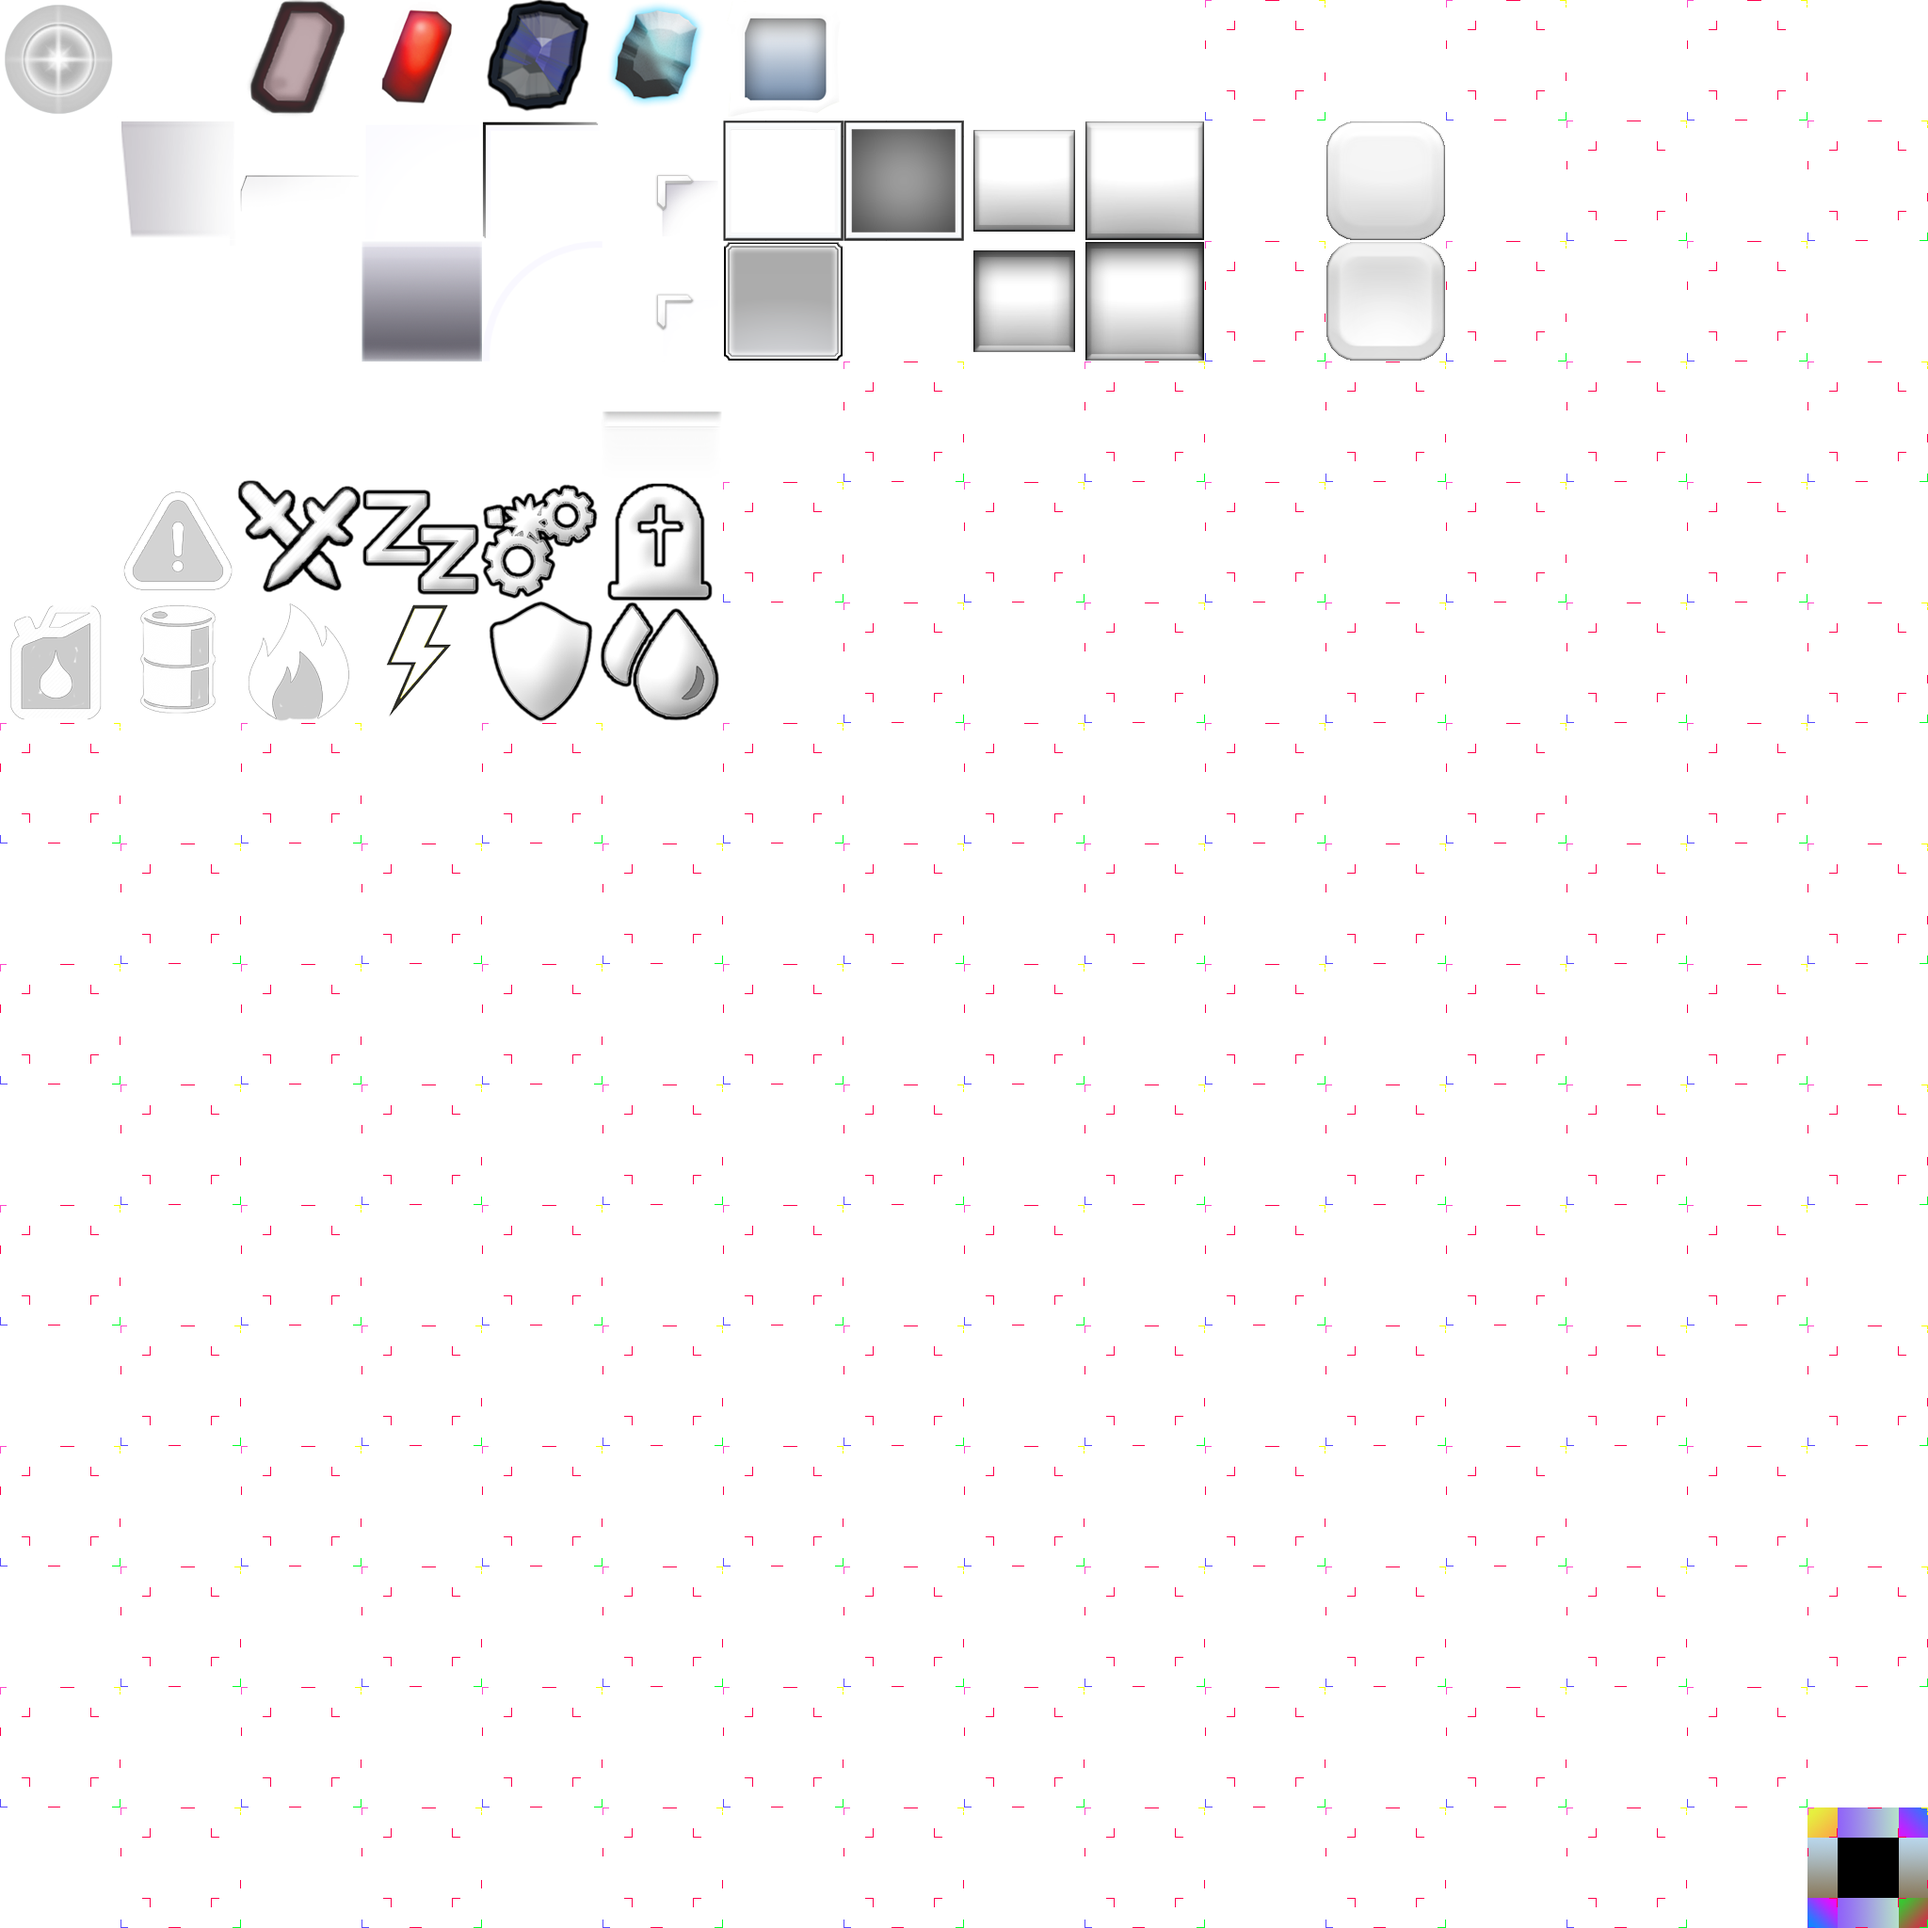
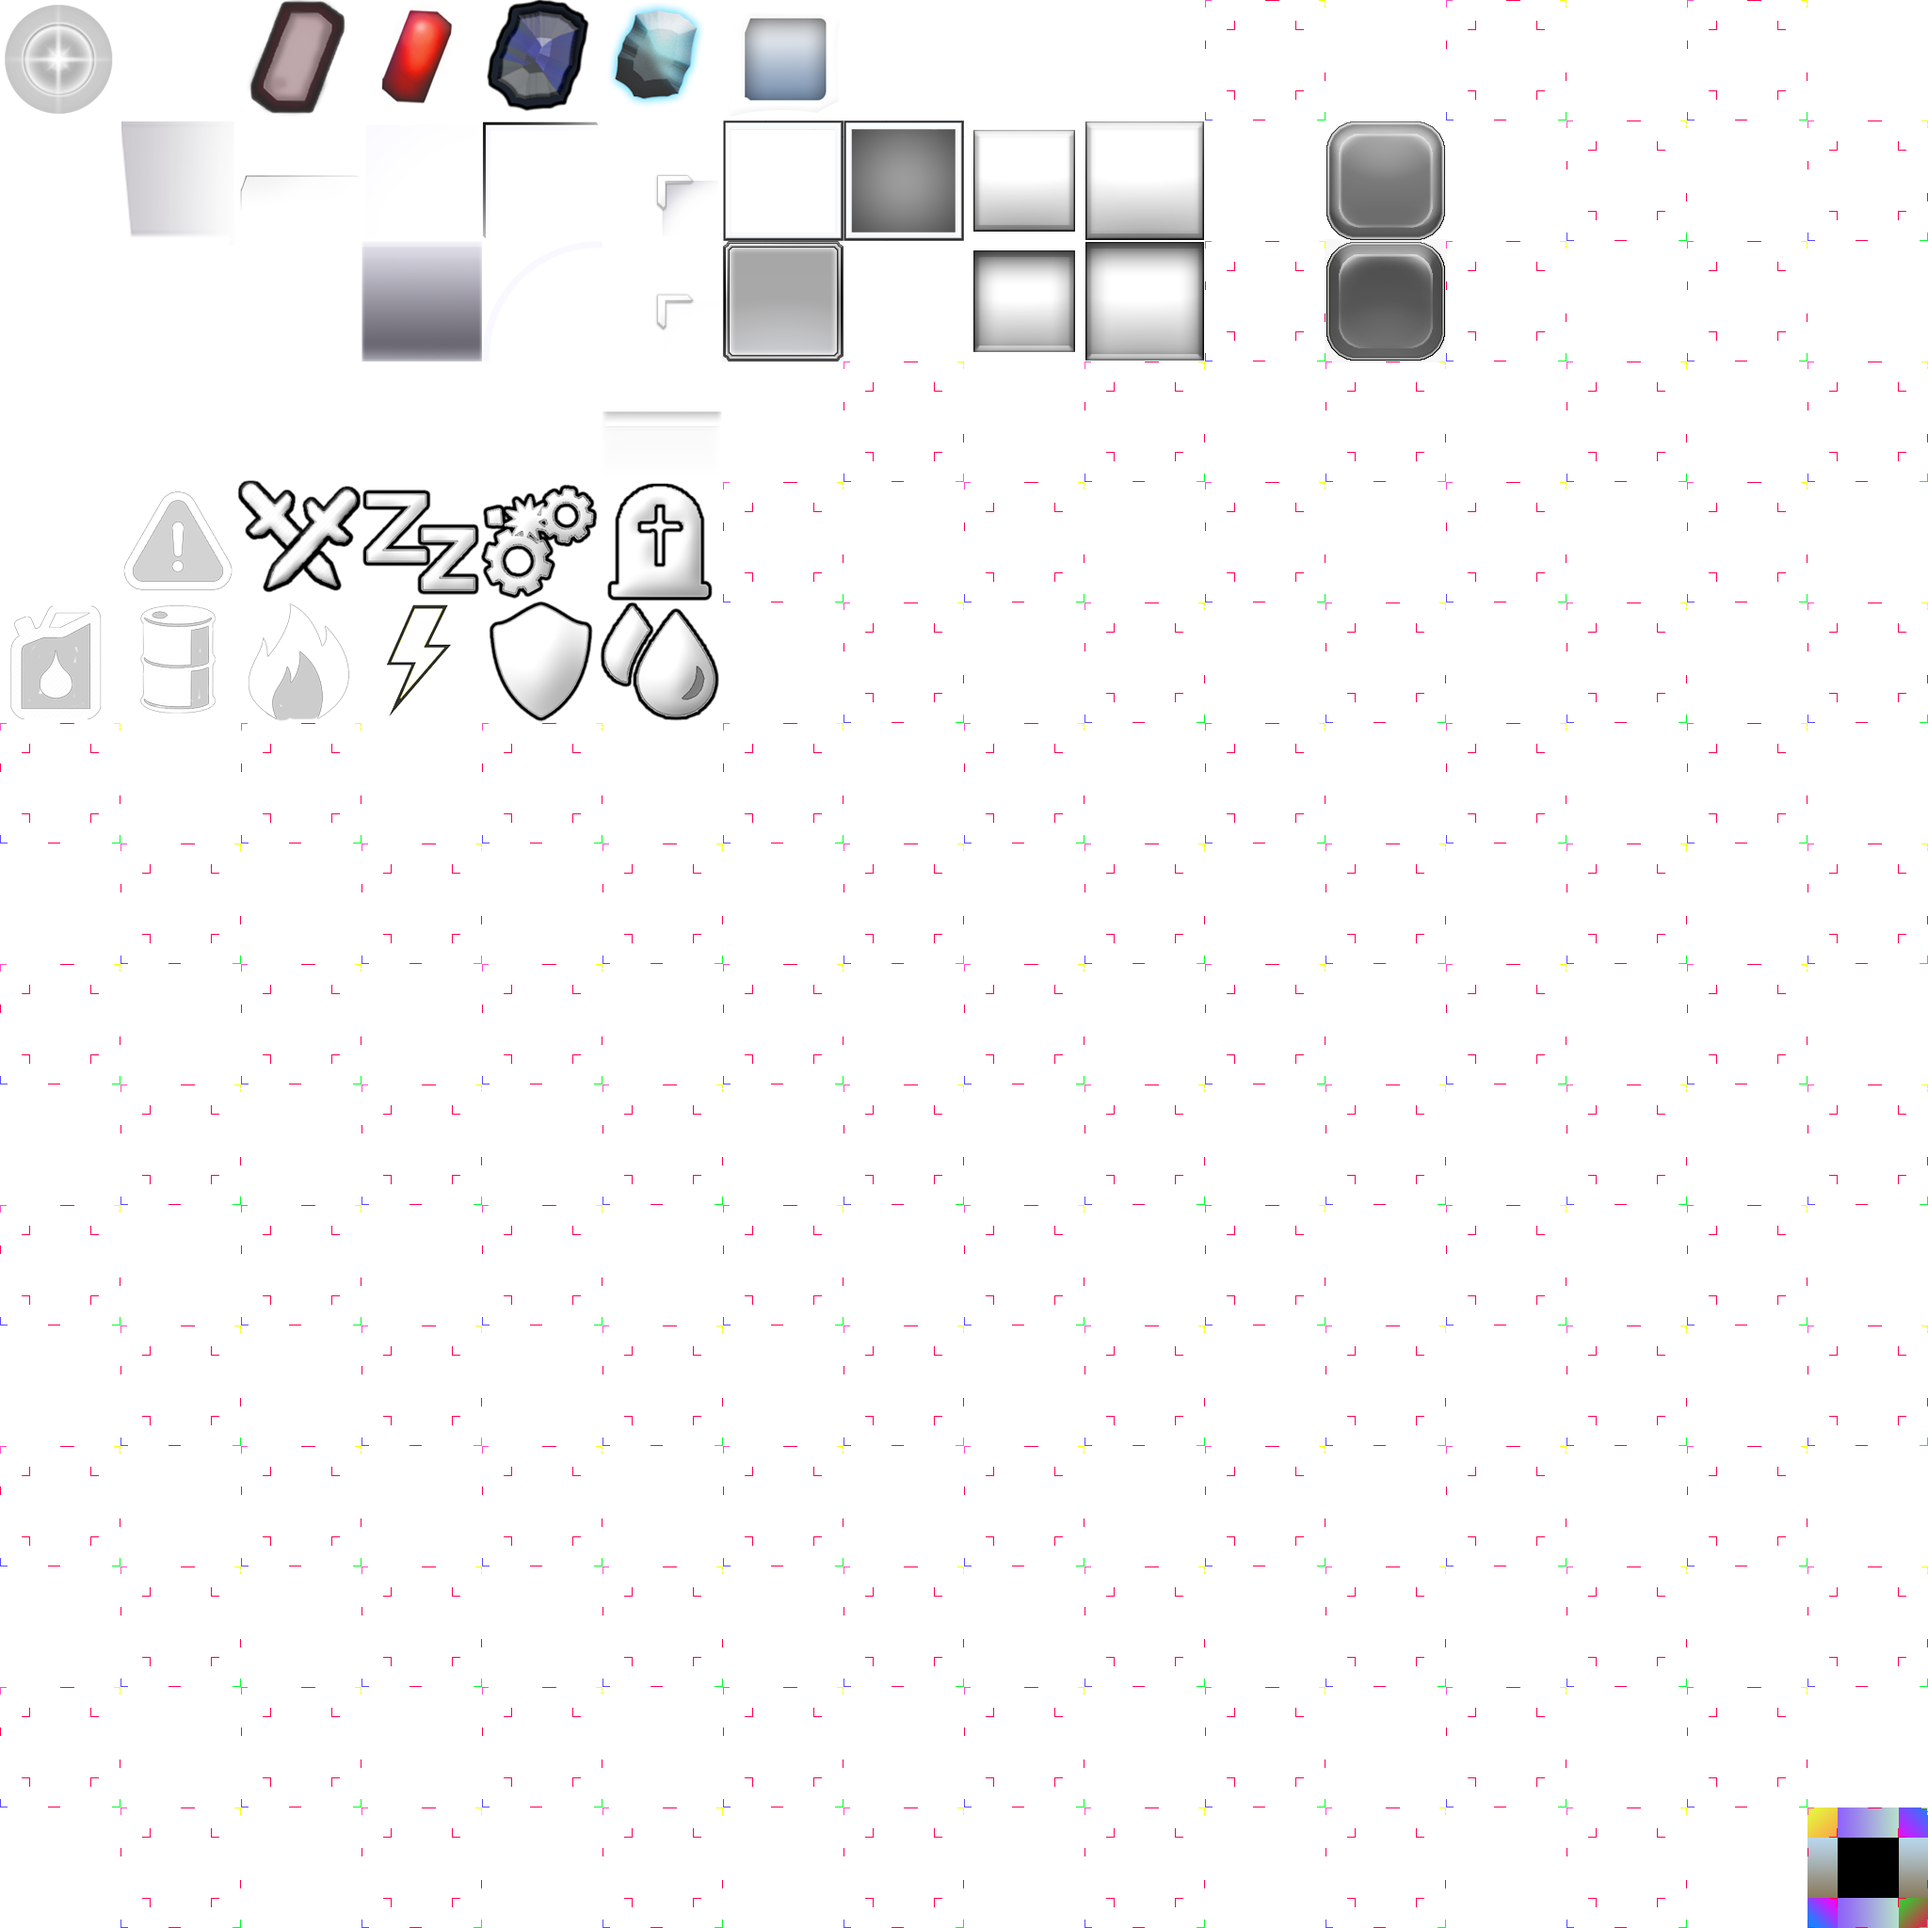
lut stuff

Changed region(s): [[0.6875, 0.0625, 0.75, 0.1875], [0.375, 0.125, 0.4375, 0.1875]]

diff --git a/client/js/workers/main/ui/states/ElementStateProcessor.js b/client/js/workers/main/ui/states/ElementStateProcessor.js
@@ -32,14 +32,15 @@ define([
                     if (color) {
 
                         for (var i = 0; i < element.guiStrings.length; i++) {
-                            element.guiStrings[i].setStringColorRGBA(color);
+                            element.guiStrings[i].setStringColorRGBA(color, state_feedback[stateKey]['lut_color']);
                         }
                     }
                 }
             }
         };
 
-
+var lutColor;
+var bufferElem;
         ElementStateProcessor.applyElementStateFeedback = function(element, elementState) {
             imgConf = element.config['image'];
             state_feedback = element.config['state_feedback'];
@@ -49,11 +50,21 @@ define([
                     stateKey = ENUMS.getKey('ElementState', elementState);
 
                     if (state_feedback[stateKey]) {
+                        bufferElem = element.getBufferElement();
+
 
                         color = state_feedback[stateKey]['color_rgba'];
                         if (color) {
-                            element.getBufferElement().setColorRGBA(color);
+                            bufferElem.setColorRGBA(color);
                         }
+
+                        lutColor = state_feedback[stateKey]['lut_color'];
+
+                        if (lutColor) {
+                            bufferElem.setLutColor(ENUMS.ColorCurve[lutColor]);
+                            bufferElem.applyDataTexture();
+                        }
+
 
                         spriteName = state_feedback[stateKey]['sprite'];
 

diff --git a/client/js/workers/main/ui/elements/GuiBufferElement.js b/client/js/workers/main/ui/elements/GuiBufferElement.js
@@ -25,7 +25,7 @@ define([
             this.lifecycle = {x:0, y:0.3, z:0, w:0.45}; // x = startTime, y = attackTime, z = endTime, w = decayTime
 
             // x:lutColor, y:lutAlpha
-            this.texelRowSelect = {x:16, y:42, z:42, w:42}; // 42 = fullWhite;
+            this.texelRowSelect = {x:105, y:42, z:42, w:42}; // 42 = fullWhite;
 
             this.setDefaultBuffers();
 
@@ -39,8 +39,8 @@ define([
             this.lifecycle.w = time;
         };
 
-        GuiBufferElement.prototype.setAttribX = function(name, index, x) {
-
+        GuiBufferElement.prototype.setLutColor = function(value) {
+            this.texelRowSelect.x = value;
         };
 
         GuiBufferElement.prototype.setIndex = function(index) {

diff --git a/client/js/workers/main/ui/elements/GuiLetter.js b/client/js/workers/main/ui/elements/GuiLetter.js
@@ -61,6 +61,11 @@ define([
             this.bufferElement.setSprite(xyzw)
         };
 
+        GuiLetter.prototype.setLetterLutColor = function(value) {
+            this.bufferElement.setLutColor(value);
+            this.bufferElement.applyDataTexture()
+        };
+
         GuiLetter.prototype.applyFontSizeAndHeight = function(fontSize, letterHeight) {
             this.setLetterScaleXY(fontSize * letterHeight * 10, fontSize * letterHeight * 10)
         };

diff --git a/client/js/workers/main/ui/elements/GuiString.js b/client/js/workers/main/ui/elements/GuiString.js
@@ -151,11 +151,12 @@ define([
         };
 
 
-        GuiString.prototype.setStringColorRGBA = function(rgba) {
+        GuiString.prototype.setStringColorRGBA = function(rgba, lutColor) {
 
             for (var i = 0; i < this.letters.length; i++) {
                 var guiLetter = this.letters[i];
                 guiLetter.setLetterColorRGBA(rgba);
+                guiLetter.setLetterLutColor(ENUMS.ColorCurve[lutColor]);
             }
 
         };

diff --git a/client/js/ENUMS.js b/client/js/ENUMS.js
@@ -340,6 +340,15 @@ if(typeof(ENUMS) === "undefined"){
 
     ENUMS.ColorCurve = {
 
+        grad_dk_purple:   120,
+        grad_dk_blue:     119,
+        grad_dk_yellow:   118,
+        grad_dk_cyan:     117,
+        grad_dk_green:    116,
+        grad_dk_orange:   115,
+        grad_dk_magenta:  114,
+        grad_dk_red:      113,
+
         grad_purple:   112,
         grad_blue:     111,
         grad_yellow:   110,
